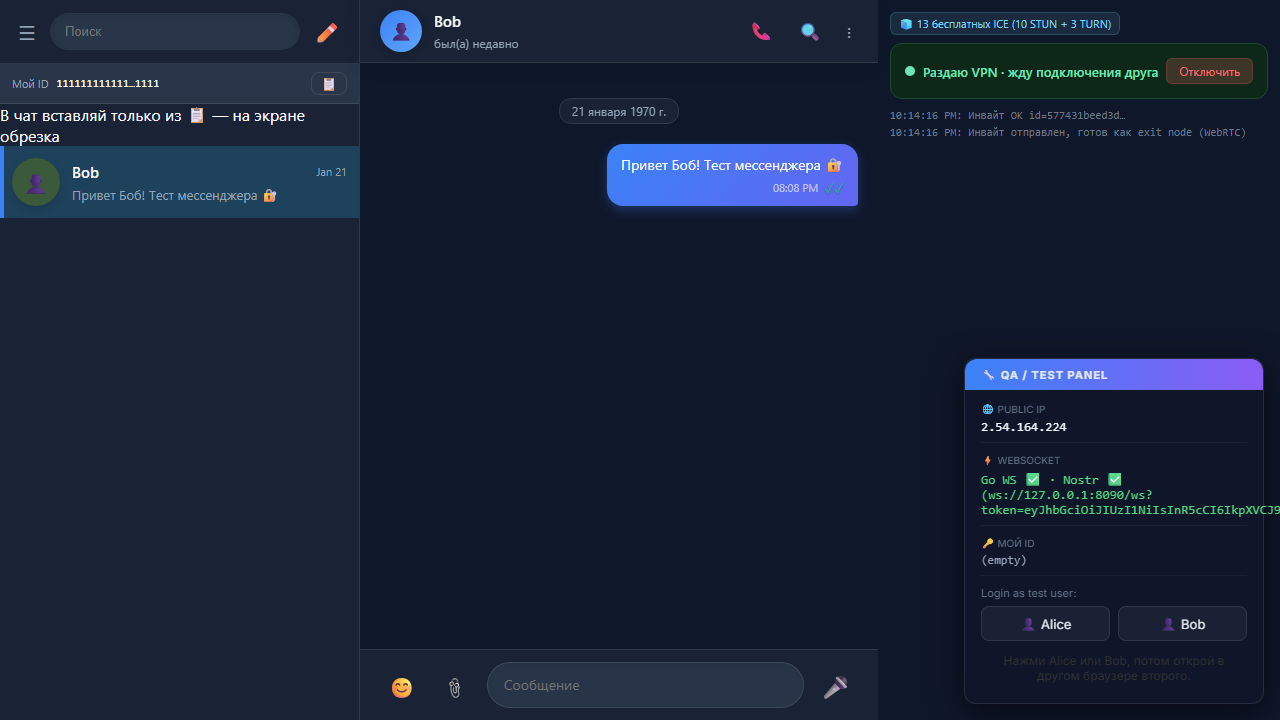
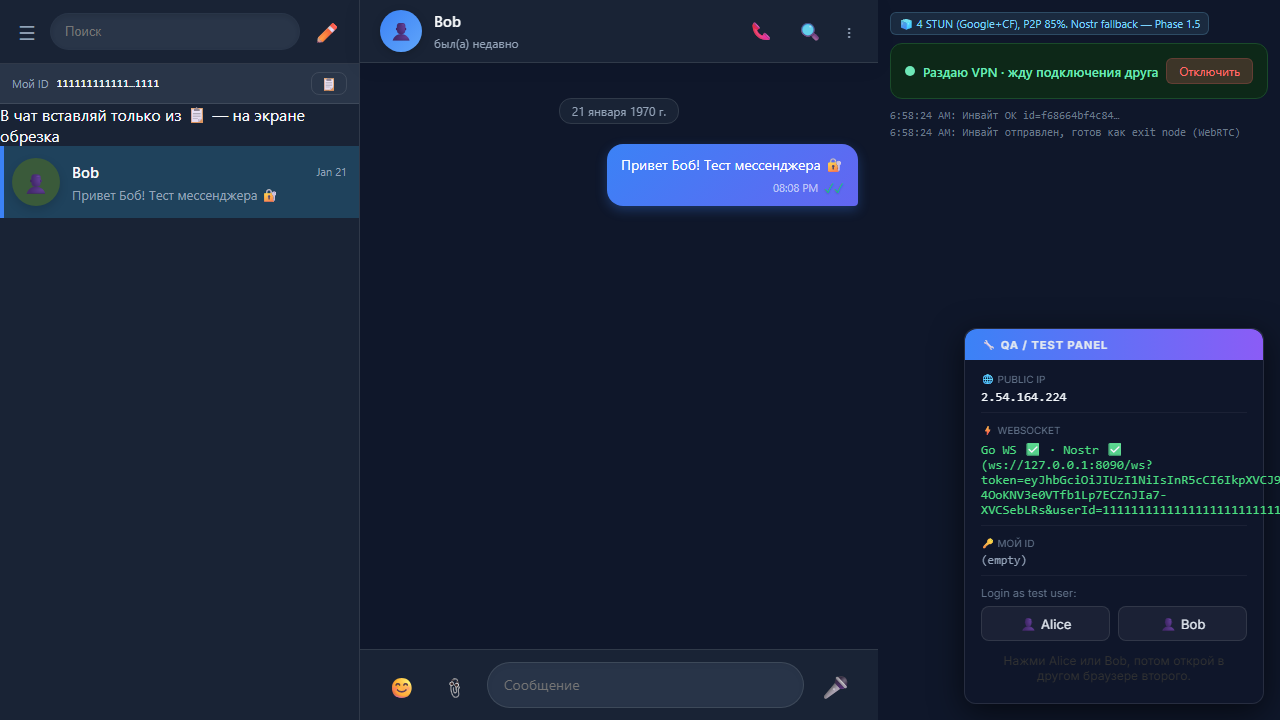
fix: remove all third-party TURN per table 58 — STUN-only + Nostr fallback plan

diff --git a/prototypes/pwa-vpn/src/lib/webrtc-vpn.ts b/prototypes/pwa-vpn/src/lib/webrtc-vpn.ts
@@ -15,32 +15,19 @@
 
 export type RTCStatus = "disconnected" | "connecting" | "connected" | "error"
 
+// Архитектурная таблица 58_TURN_Fallback: STUN only для Phase 1.
+// STUN не видит трафик — это бесплатная справочная (RFC 5389).
+// 4 проверенных провайдера: Google + Cloudflare. Пробивает 85% NAT.
+//
+// Для оставшихся 15% (CGNAT, симметричный NAT):
+//   - Nostr relay data transport (Phase 1.5, таблица 58 winner)
+//   - libp2p circuit relay (Phase 2 Desktop, таблица 57 winner)
+// Никаких сторонних TURN с неизвестными credentials.
 const ICE_SERVERS: RTCIceServer[] = [
   { urls: "stun:stun.l.google.com:19302" },
   { urls: "stun:stun1.l.google.com:19302" },
   { urls: "stun:stun2.l.google.com:19302" },
   { urls: "stun:stun.cloudflare.com:3478" },
-  { urls: "stun:stun.nextcloud.com:443" },
-  { urls: "stun:stun.sipgate.net:3478" },
-  { urls: "stun:stun.ekiga.net:3478" },
-  { urls: "stun:stun.sonetel.com:3478" },
-  { urls: "stun:stun.voipbuster.com:3478" },
-  { urls: "stun:stun.1und1.de:3478" },
-  {
-    urls: "turn:openrelay.metered.ca:80",
-    username: "openrelayproject",
-    credential: "openrelayproject",
-  },
-  {
-    urls: "turn:openrelay.metered.ca:443",
-    username: "openrelayproject",
-    credential: "openrelayproject",
-  },
-  {
-    urls: "turn:relay1.expressturn.com:3478",
-    username: "ef3KKF",
-    credential: "wMo2lgTNQjZ9",
-  },
 ]
 
 const TYPE_HTTP_GET = 0x01

diff --git a/prototypes/pwa-vpn/src/components/VPNProductPanel.svelte b/prototypes/pwa-vpn/src/components/VPNProductPanel.svelte
@@ -19,7 +19,7 @@
   let dismissedFrom = $state<Record<string, number>>({})
 
   onMount(async () => {
-    turnStatus = '13 бесплатных ICE (10 STUN + 3 TURN)'
+    turnStatus = '4 STUN (Google+CF), P2P 85%. Nostr fallback — Phase 1.5'
     amneziaStatus = ''
   })
 
